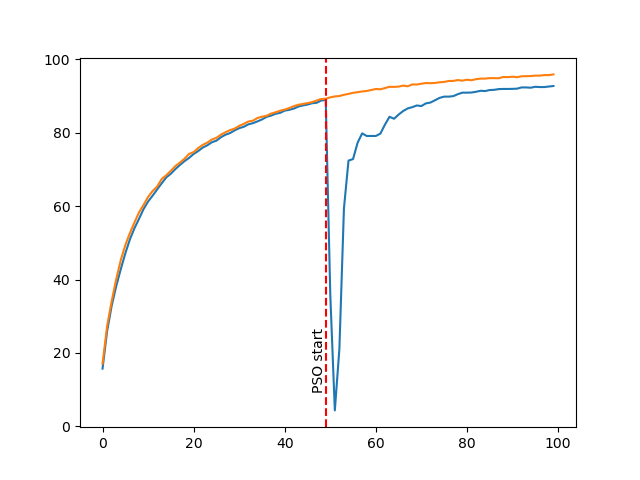
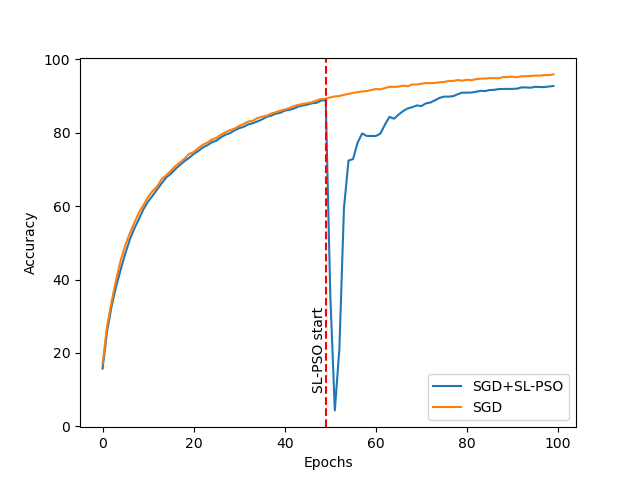
results plotting updated

diff --git a/results_plotter.py b/results_plotter.py
@@ -17,7 +17,7 @@ def get_stats(filename, headers):
 
     return stats
 
-def display_axis2d(files, headers, casts, join_axis=0):
+def display_axis2d(files, labels, headers, casts, join_axis=0):
     if len(headers) != 2:
         return
 
@@ -48,16 +48,21 @@ def display_axis2d(files, headers, casts, join_axis=0):
     print("X_DATA:\n", x_data)
     print("Y_DATA:\n", y_data)
 
+    plt.xlabel("Epochs")
+    plt.ylabel("Accuracy")
+
     for i in range(len(y_data)):
-        plt.plot(x_data, y_data[i])
+        plt.plot(x_data, y_data[i], label=labels[i])
+
+    plt.legend(loc='lower right')
 
     plt.axvline(x=49, label="PSO start", color="red", ls="--")
-    plt.text(46,10,'PSO start',rotation=90)
+    plt.text(46,10,'SL-PSO start',rotation=90)
 
     plt.savefig(f'./models/results/{headers[(join_axis+1)%2]}.png')
     plt.show()
 
 if __name__ == "__main__":
-    display_axis2d(["./models/logs/pso.csv", "./models/logs/sgd.csv"], ["Epoch", "Valid_Accuracy"], [int, float])
-    display_axis2d(["./models/logs/pso.csv", "./models/logs/sgd.csv"], ["Epoch", "Train_Accuracy"], [int, float])
+    display_axis2d(["./models/logs/pso.csv", "./models/logs/sgd.csv"], ["SGD+SL-PSO", "SGD"],["Epoch", "Valid_Accuracy"], [int, float])
+    display_axis2d(["./models/logs/pso.csv", "./models/logs/sgd.csv"], ["SGD+SL-PSO", "SGD"],["Epoch", "Train_Accuracy"], [int, float])
             
